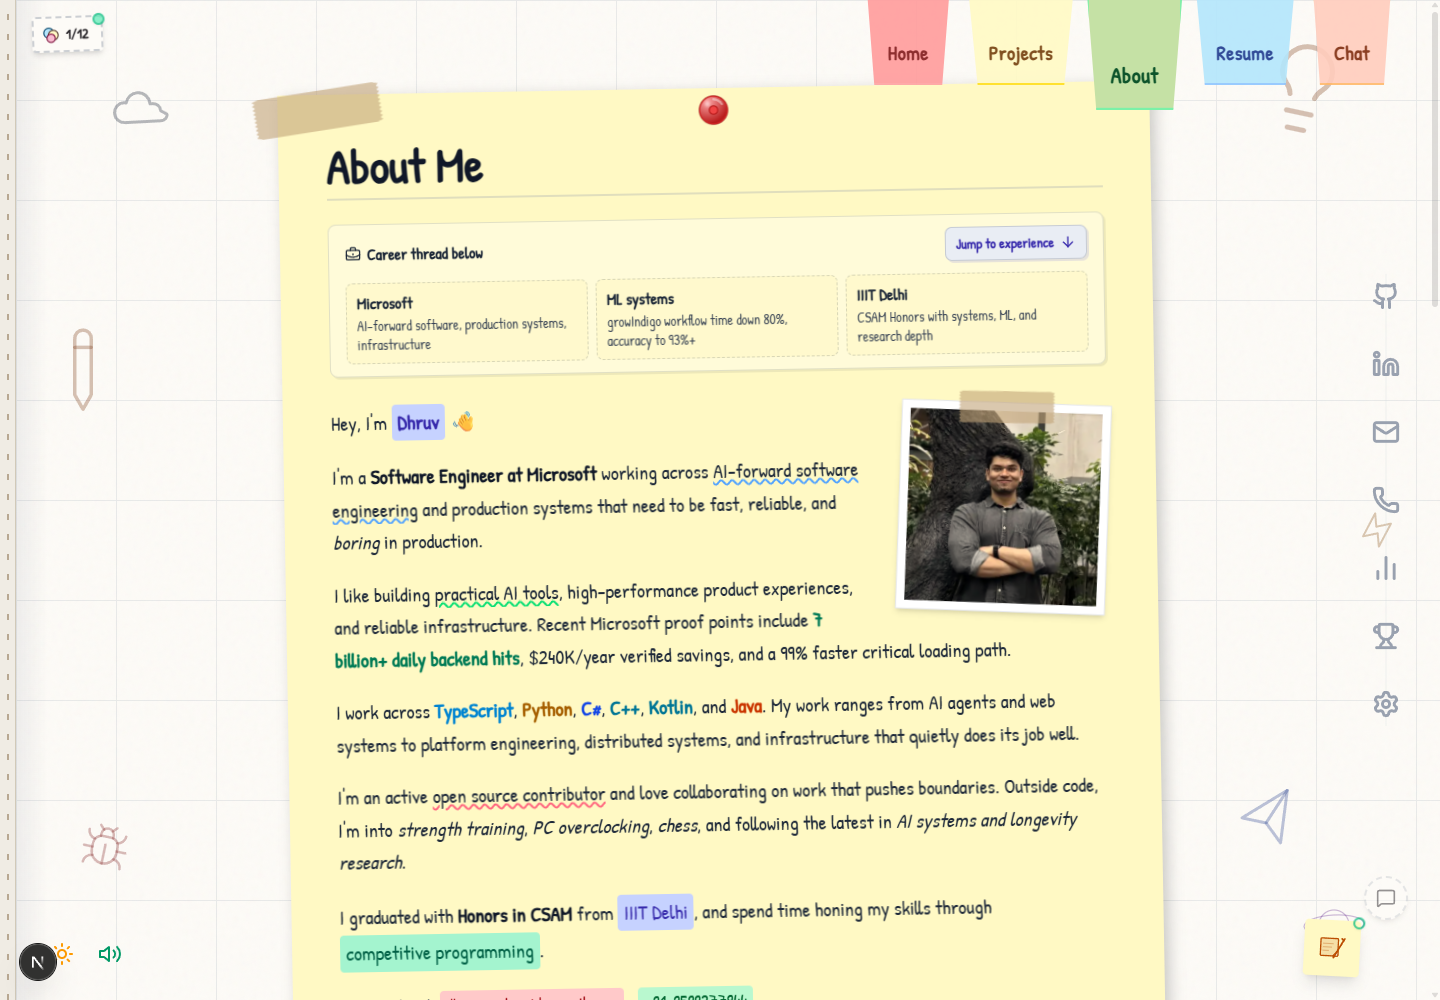
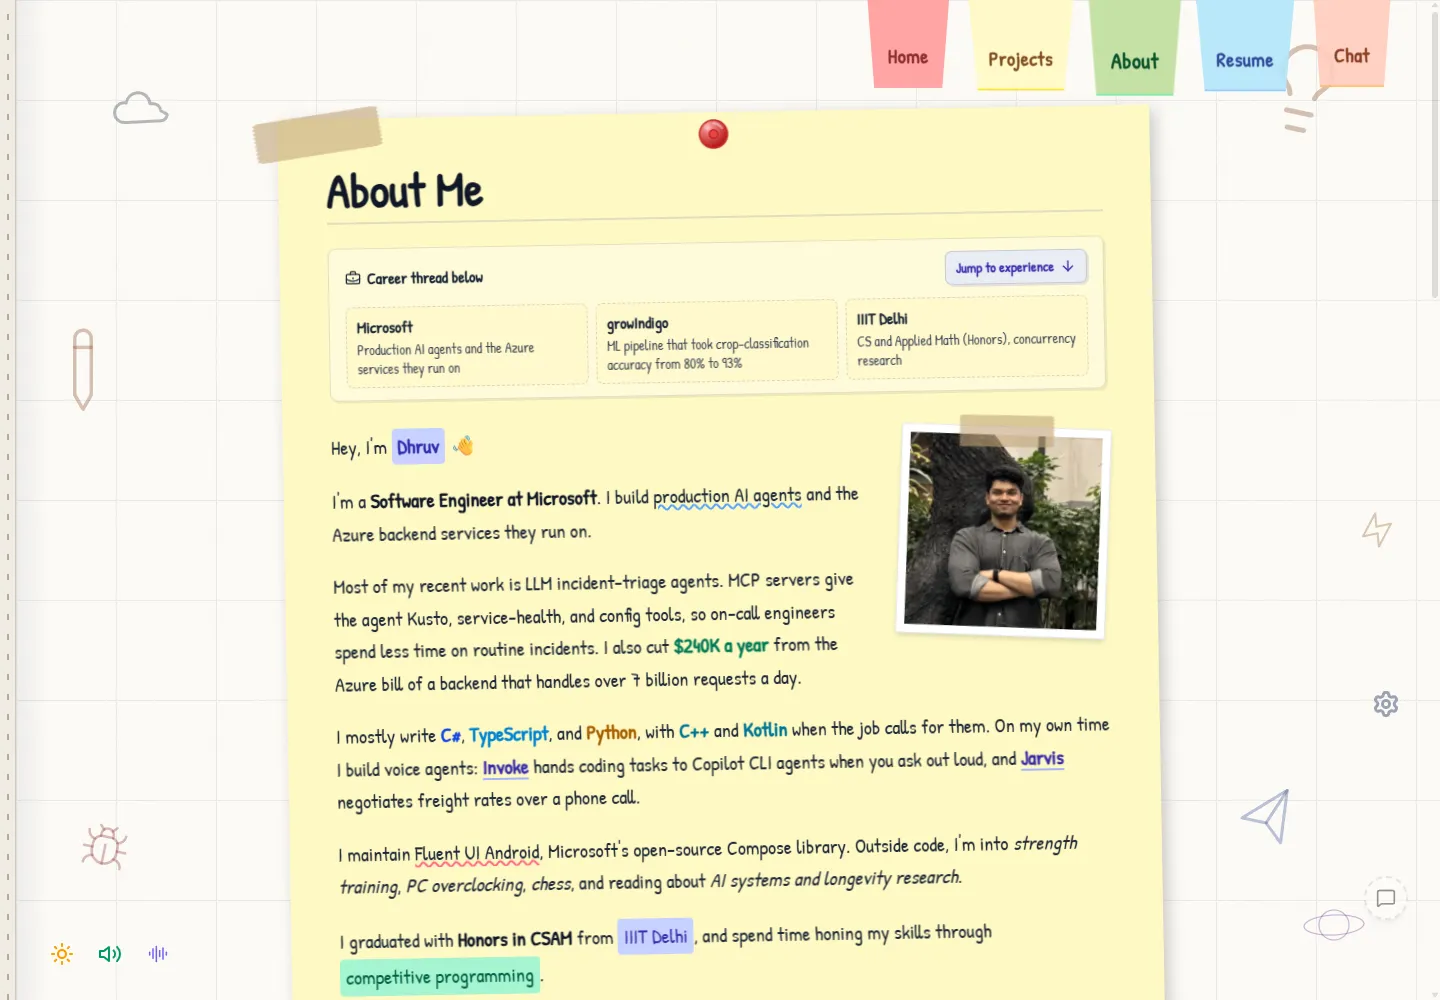
docs: refresh README screenshots, add author line and changelog entries
Home, About, and Projects screenshots were from v0.7.0 and showed the old hero and project wall. Recaptured at 1440x1000 in light mode.

diff --git a/CHANGELOG.md b/CHANGELOG.md
@@ -15,6 +15,9 @@ LCP. Last measured production LCP was about 393 ms with CLS 0 (August 2026).
 
 ### Added
 
+- Invoke (voice-controlled coding agents) project card, fact, chat routing, and repo link.
+- Home hero names Dhruv Mishra and his role and links resume, projects, and email before the terminal.
+- Per-page Open Graph image and Twitter card on every route; About `ProfilePage` JSON-LD.
 - Pull-request CI with lint, typecheck, test, and production build.
 - Nginx `private, no-store` cache bypass for `/admin` and `/matrix-notes`.
 - Voice HUD and agent state-machine documentation.
@@ -23,6 +26,10 @@ LCP. Last measured production LCP was about 393 ms with CLS 0 (August 2026).
 
 ### Changed
 
+- Resume PDF, resume facts, experience timeline, About copy, project cards, chat replies, and terminal output updated to the October 2026 resume; generic marketing phrasing removed.
+- Next.js 16.3.8 (high-severity cache-poisoning and SSRF advisories), patched sharp and source-map-js; production audit clean.
+- Google Analytics DNS hints only render when GA is configured.
+- CI jobs have explicit timeouts.
 - Updated default Groq chat model to Qwen 3.8 27B (`qwen/qwen3.8-27b`).
 - Voice agent uses stable `gemini-3.8-live`; voice tools declare `BLOCKING` to keep serial action turns.
 - Next.js 16.3.6 (critical RCE advisories), React 19.3.0, in-range dependency updates; production audit clean.
@@ -41,6 +48,8 @@ LCP. Last measured production LCP was about 393 ms with CLS 0 (August 2026).
 
 ### Fixed
 
+- Portfolio project modal video: the file was misspelled `PersonalPorfolio.mp4`, so the derived `PersonalPortfolio.mp4` path 404'd.
+- Removed dead code and unreferenced public files (`MatrixNotesGate`, an unused adapter export, unused CSS, `og-default.png`, a duplicate favicon, a stale public README).
 - Client bundles no longer include the full `package.json`; only the version is exposed.
 - Portfolio-project chat keywords escape `\s`, so "portfolio project" and "this site" match again.
 - Navigation `aria-current` is on the `Link`.

diff --git a/README.md b/README.md
@@ -2,6 +2,8 @@
 
 The source for [whoisdhruv.com](https://whoisdhruv.com), an interactive portfolio built as a hand-drawn engineering sketchbook. It combines a command-line interface, grounded multimodal AI chat, project case studies, custom speech, a public guestbook, and a small discovery layer that rewards exploration.
 
+Built by Dhruv Mishra, a software engineer at Microsoft who builds AI agents and Azure backend services. [Resume](https://whoisdhruv.com/resume) · [LinkedIn](https://www.linkedin.com/in/dhruv-mishra-id/)
+
 [Visit production](https://whoisdhruv.com) · [Preview staging](https://staging.whoisdhruv.com) · [Read the app guide](portfolio/README.md)
 
 ## Documentation
